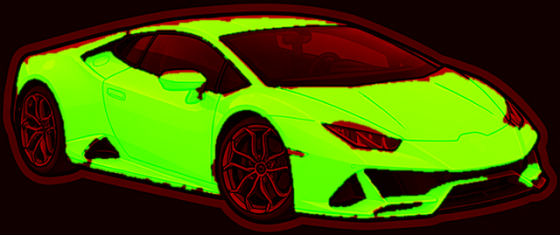
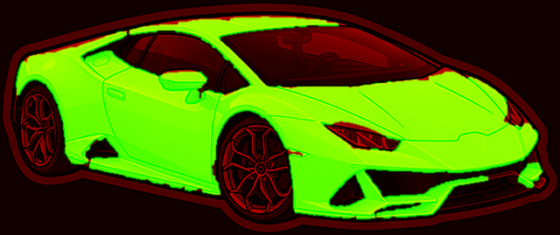
Torrente: fit wheels, fix wrap masks, drawn widebody kit (works on any car with wheel data)
Claude-Session: https://claude.ai/code/session_01Xjr8JiaSLqG2KUHnpRrdww

diff --git a/hustleville/garage.js b/hustleville/garage.js
@@ -75,6 +75,27 @@ const Garage = (() => {
     return pending[key];
   }
 
+  function kit(g, data, v, WL, w, h) {
+    let r = 0, gg = 0, b = 0, n = 0; for (let i = 0; i < w * h; i += 7) { if (v.pm[i * 4 + 1] > 200) { r += data[i * 4]; gg += data[i * 4 + 1]; b += data[i * 4 + 2]; n++; } } n = n || 1; const av = [r / n, gg / n, b / n];
+    const col = (k) => `rgb(${Math.min(255, av[0] * k) | 0},${Math.min(255, av[1] * k) | 0},${Math.min(255, av[2] * k) | 0})`;
+    const ws = WL.map(([fx, fy, frx, fry]) => ({ x: fx * w, y: fy * h, rx: frx * w, ry: fry * h })).sort((a, b) => a.x - b.x);
+    if (ws.length > 1) {                                                  // side skirt + front lip: dark carbon strips along the bottom edge
+      const a = ws[0], q = ws[ws.length - 1]; g.save(); g.lineCap = 'round';
+      g.strokeStyle = 'rgba(14,16,22,.92)'; g.lineWidth = Math.max(4, h * 0.02); g.beginPath(); g.moveTo(a.x + a.rx * 1.3, a.y + a.ry * 0.62); g.lineTo(q.x - q.rx * 1.3, q.y + q.ry * 0.7); g.stroke();
+      g.strokeStyle = 'rgba(200,205,220,.4)'; g.lineWidth = 1.2; g.beginPath(); g.moveTo(a.x + a.rx * 1.3, a.y + a.ry * 0.56); g.lineTo(q.x - q.rx * 1.3, q.y + q.ry * 0.64); g.stroke();
+      g.strokeStyle = 'rgba(14,16,22,.95)'; g.lineWidth = Math.max(5, h * 0.024); g.beginPath(); g.moveTo(q.x + q.rx * 1.3, q.y + q.ry * 0.9); g.lineTo(Math.min(w - 6, q.x + q.rx * 3.2), q.y + q.ry * 0.82); g.stroke(); g.restore();
+    }
+    for (const q of ws) {                                                 // flared arches: a bolted fender lip over the top of each wheel
+      const t0 = Math.PI * 1.04, t1 = Math.PI * 1.98, irx = q.rx * 1.2, iry = q.ry * 1.1, th = q.rx * 0.3, N = 28;
+      g.save(); g.translate(q.x, q.y - q.ry * 0.02); g.rotate(-0.08); g.beginPath();
+      for (let k = 0; k <= N; k++) { const t = t0 + (t1 - t0) * k / N; g.lineTo(Math.cos(t) * (irx + th), Math.sin(t) * (iry + th)); }
+      for (let k = N; k >= 0; k--) { const t = t0 + (t1 - t0) * k / N; g.lineTo(Math.cos(t) * irx, Math.sin(t) * iry); }
+      g.closePath(); const gr = g.createLinearGradient(0, -iry - th, 0, 0); gr.addColorStop(0, col(1.2)); gr.addColorStop(1, col(0.7));
+      g.fillStyle = gr; g.fill(); g.lineWidth = 1.5; g.strokeStyle = 'rgba(12,16,30,.9)'; g.stroke();
+      g.fillStyle = 'rgba(20,22,30,.95)'; for (let k = 1; k < 8; k++) { const t = t0 + (t1 - t0) * k / 8; g.beginPath(); g.arc(Math.cos(t) * (irx + th * 0.5), Math.sin(t) * (iry + th * 0.5), Math.max(1.1, h * 0.0045), 0, 7); g.fill(); }
+      g.restore();
+    }
+  }
   const sstep = (a, b, x) => { const t = Math.max(0, Math.min(1, (x - a) / (b - a))); return t * t * (3 - 2 * t); };
   // renders (key, mods) to a canvas. o.pad: transparent border (fraction of width) so glows are not clipped. o.glow: glow strength (0 = none)
   function compose(key, m, o) {
@@ -97,7 +118,7 @@ const Garage = (() => {
       for (let y = 0; y < WP.bh; y++) for (let x = 0; x < WP.bw; x++) {
         const px = WP.bx + x, py = WP.by + y, i = py * w + px, k = i * 4, mk = pm[k + 1]; if (!mk) continue;
         const R = pm[k]; let sh = Math.min(1.12, R / 150); sh = 0.2 + 0.9 * sh; if (matte) sh = 0.45 + 0.55 * sh;
-        const hh = Math.max(0, (R - 150) / 105) * (matte ? 0.1 : 0.4), t = (y * WP.bw + x) * 4, a = mk / 255;
+        const hh = Math.max(0, (R - 150) / 105) * (matte ? 0.1 : 0.4), t = (y * WP.bw + x) * 4, a = Math.min(1, mk / 170);
         const r = WP.d[t] * sh * (1 - hh) + 255 * hh, g = WP.d[t + 1] * sh * (1 - hh) + 255 * hh, b = WP.d[t + 2] * sh * (1 - hh) + 255 * hh;
         data[k] = data[k] * (1 - a) + r * a; data[k + 1] = data[k + 1] * (1 - a) + g * a; data[k + 2] = data[k + 2] * (1 - a) + b * a;
       }
@@ -134,6 +155,7 @@ const Garage = (() => {
         const sh = tctx.createRadialGradient(-0.15, -0.15, 0.35, 0, 0, 1.05); sh.addColorStop(0, 'rgba(8,12,30,0)'); sh.addColorStop(1, 'rgba(8,12,30,0.5)'); tctx.fillStyle = sh; tctx.fillRect(-1.1, -1.1, 2.2, 2.2); tctx.restore();
       }
     }
+    if (m.wide && !ent.info.wide && WL) kit(tctx, data, v, WL, w, h);              // sprites without a widebody art get a drawn kit: flares, bolts, skirt, lip
     ctx.drawImage(tmp, pad, 0);
     const gl = o.glow == null ? 1 : o.glow;
     if (gl > 0) {
@@ -258,7 +280,7 @@ const Garage = (() => {
     dot('kit', d.wide !== cur.wide); dot('paint', d.paint !== cur.paint || d.finish !== cur.finish); dot('wrap', d.wrap !== cur.wrap); dot('wheel', d.wheel !== cur.wheel); dot('lights', d.light !== cur.light); dot('neon', d.neon !== cur.neon);
     const box = $g('garOpts'); let h = '';
     if (G.tab === 'kit') {
-      if (!info.wide) h = `<div class="gar-note">One-off and bike bodywork cannot take a widebody kit. Try paint, a wrap, wheels or lights instead.</div>`;
+      if (!(info.wide || (info.wheels && info.wheels.stock))) h = `<div class="gar-note">Bikes do not take a widebody kit. Try paint, a wrap or lights instead.</div>`;
       else h = `<div class="gar-grid two">${tile(thumb({ ...d, wide: 0 }) + '<b>Stock</b><small>Factory body</small>', !d.wide, 'data-k="wide" data-v="0"')}${tile(thumb({ ...d, wide: 1 }) + `<b>Widebody</b><small>${cur.wide ? 'Fitted ✓' : fm(PRICE.wide(a))}</small><i class="hot">+Style</i>`, !!d.wide, 'data-k="wide" data-v="1"')}</div><div class="gar-note">Flared arches, splitter, skirts and a wing. Adds value, fame and a big grin.</div>`;
     } else if (G.tab === 'paint') {
       const sw = (p, k) => p.c ? `<i class="sw" style="background:radial-gradient(circle at 32% 28%,#fff9 0 12%,transparent 30%),${hex(p.c)}"></i>` : `<i class="sw stock"></i>`;
